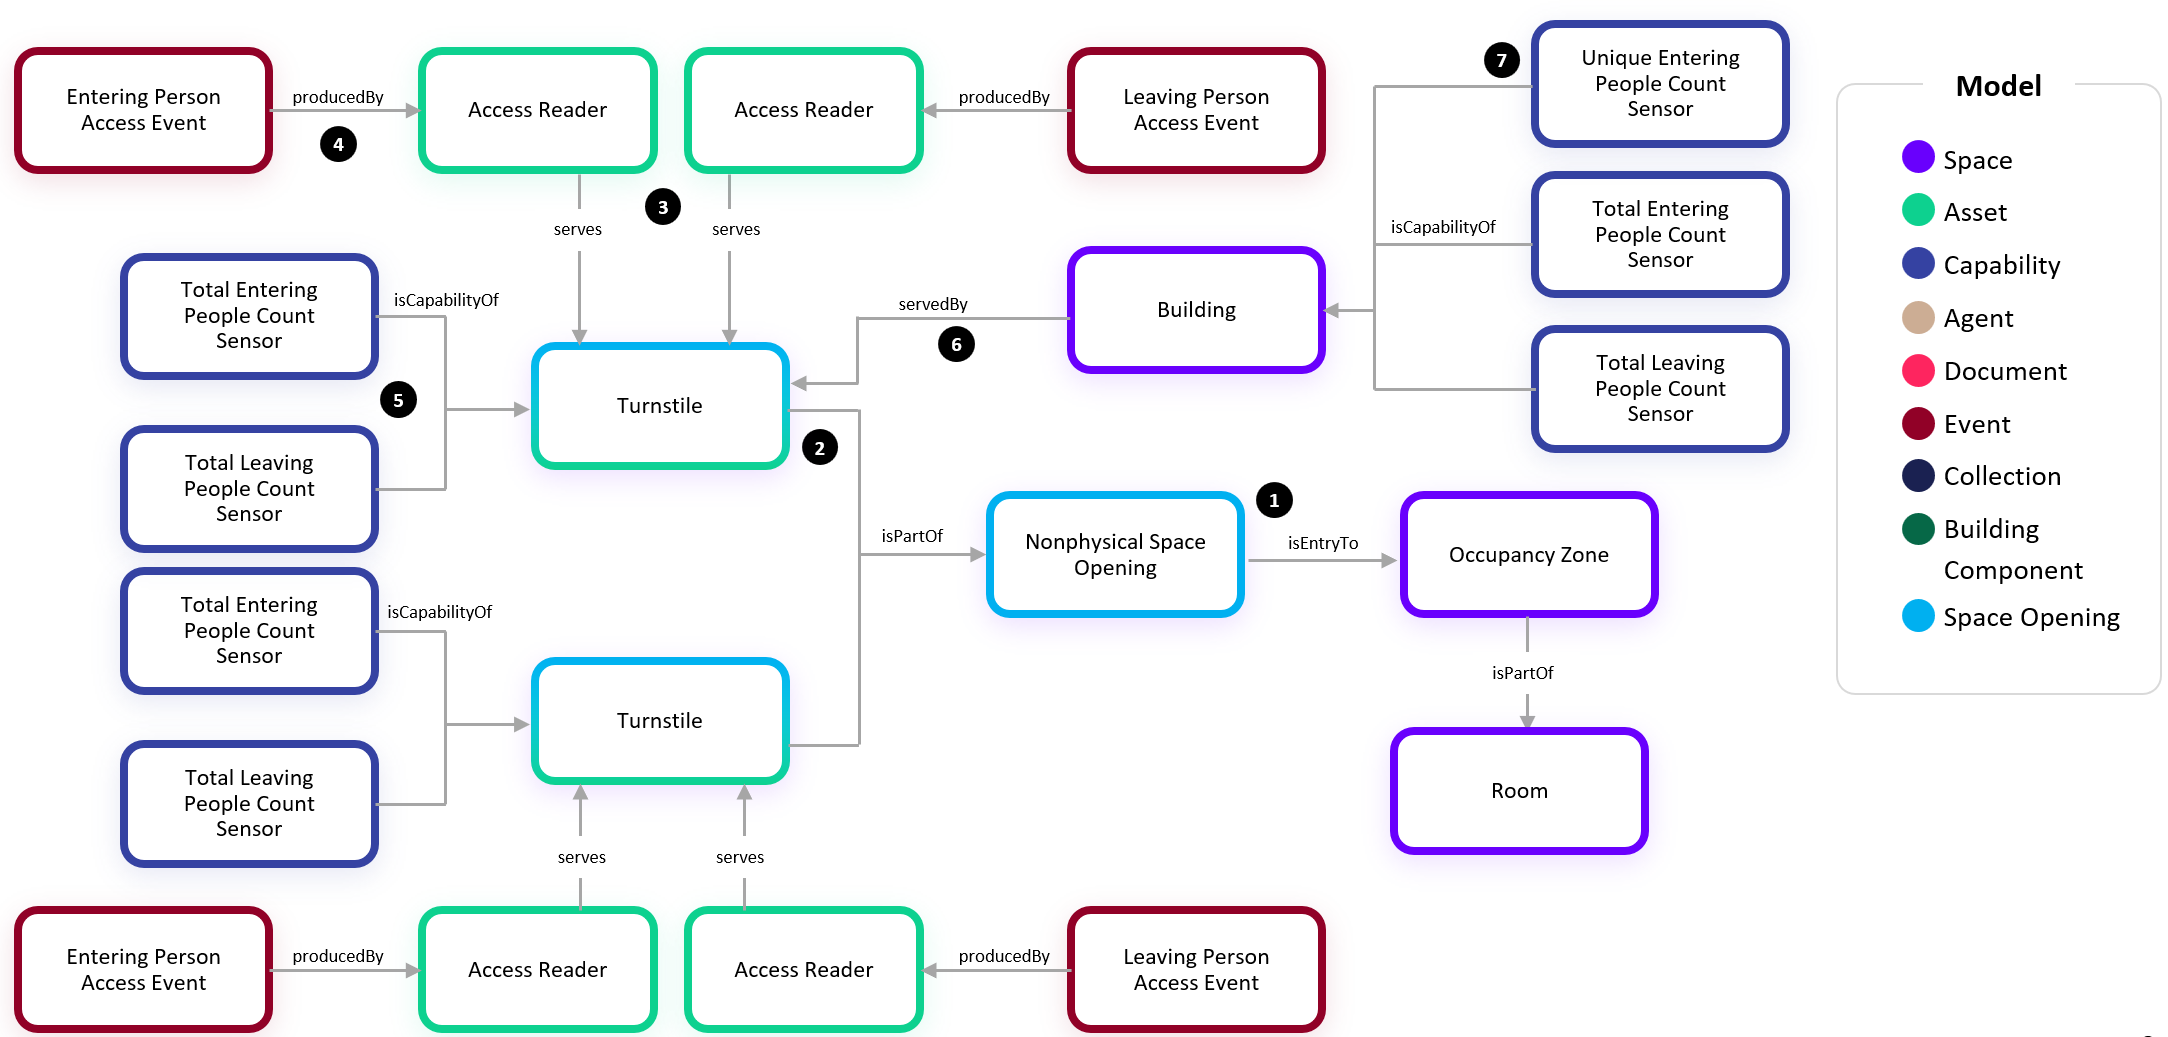
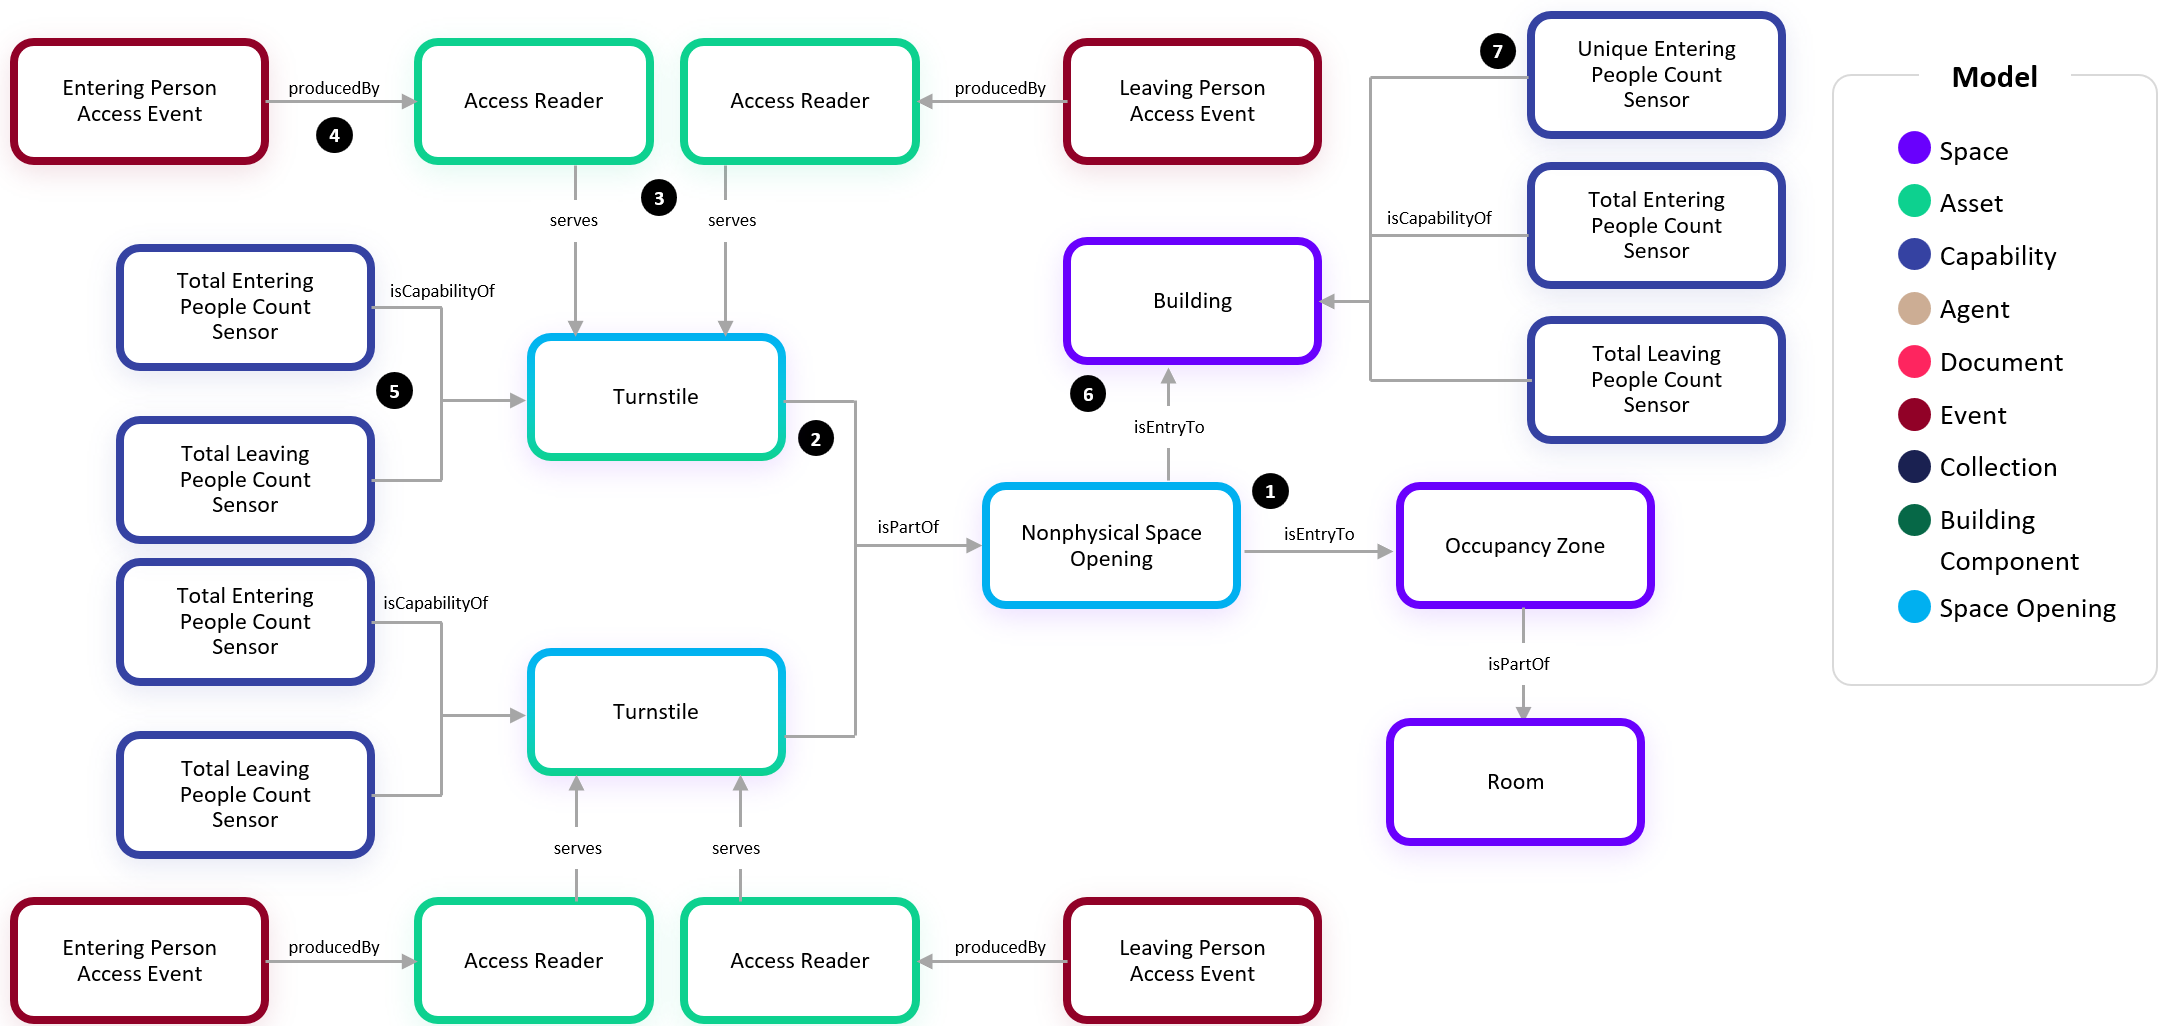
Update occupancy sample

diff --git a/Samples/09-Occupancy.md b/Samples/09-Occupancy.md
@@ -100,7 +100,7 @@ This example depicts a divided opening which has multiple turnstiles each with a
 
 5. Each Turnstile has a Total Entering People Count Sensor and Total Leaving People Count Sensor. These are calculated values by Willow which query the Entering/Leaving Person Access Events for the day. These are totalized throughout a day and reset at midnight.
 
-6. Each of the perimeter Openings to a Building get a servedBy relationship to the Building which enables the Total Entering People Count and Total Leaving People Count from those Openings to be summed for the Building’s Total Entering People Count and Total Leaving People Count.
+6. Each of the perimeter Openings to a Building get an isEntryTo relationship to the Building which enables the Total Entering People Count and Total Leaving People Count from those Openings to be summed for the Building’s Total Entering People Count and Total Leaving People Count.
 
 7. The Unique Entering People Count Sensor is a calculated value by Willow which queries all granted events across all Access Readers at the Building.
 
